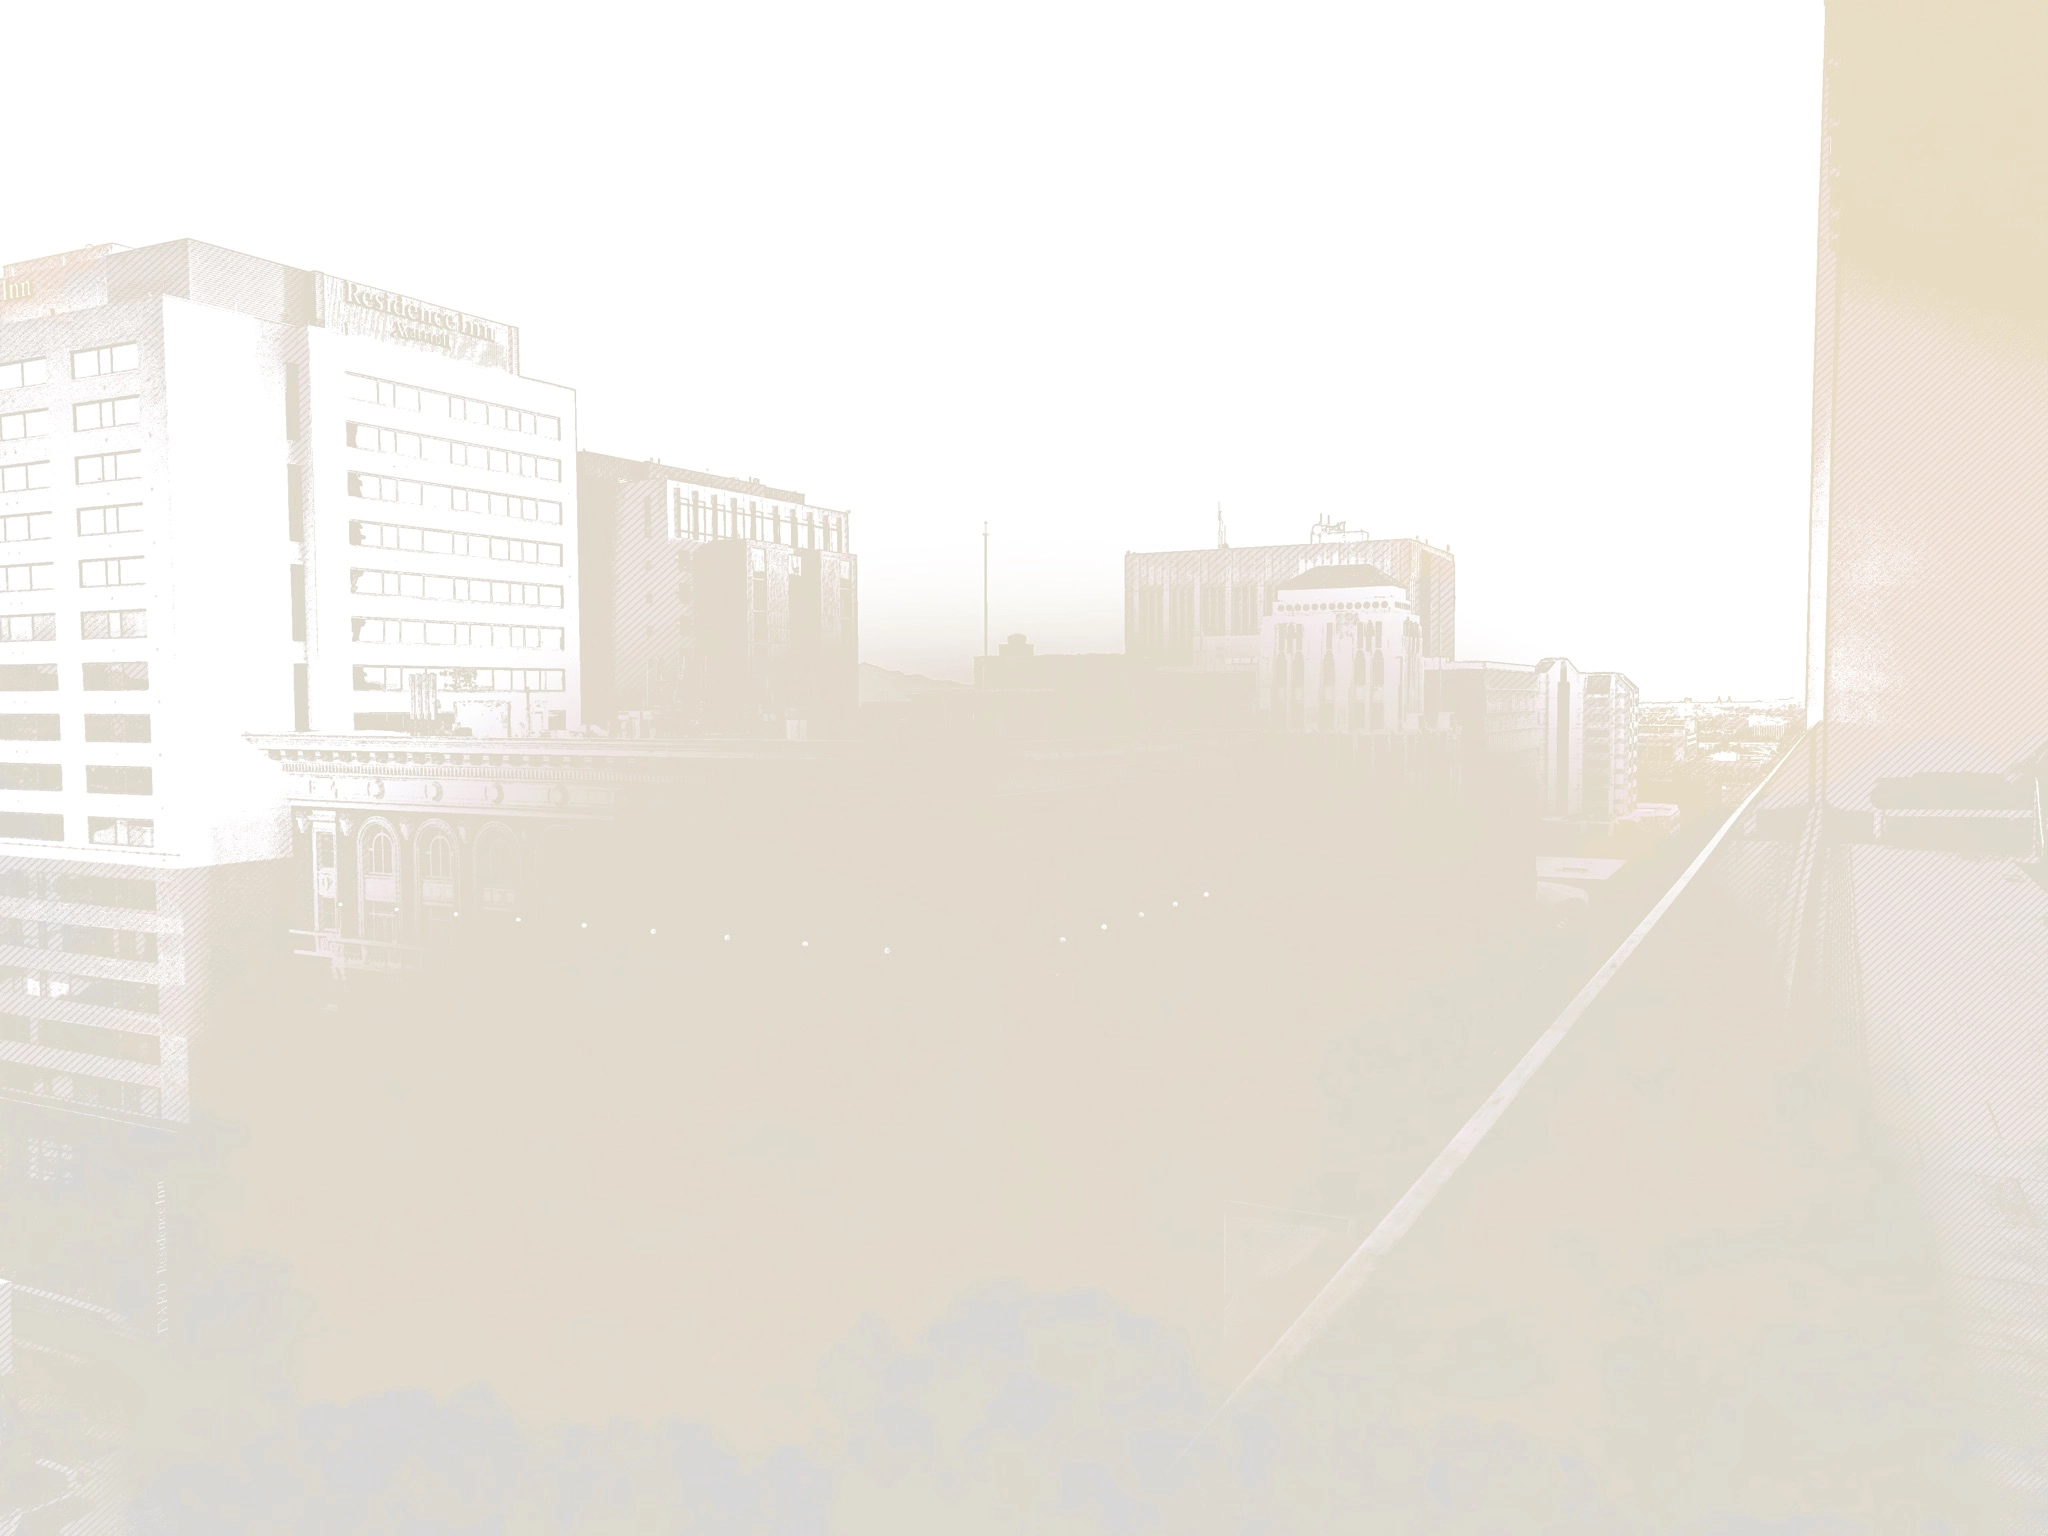
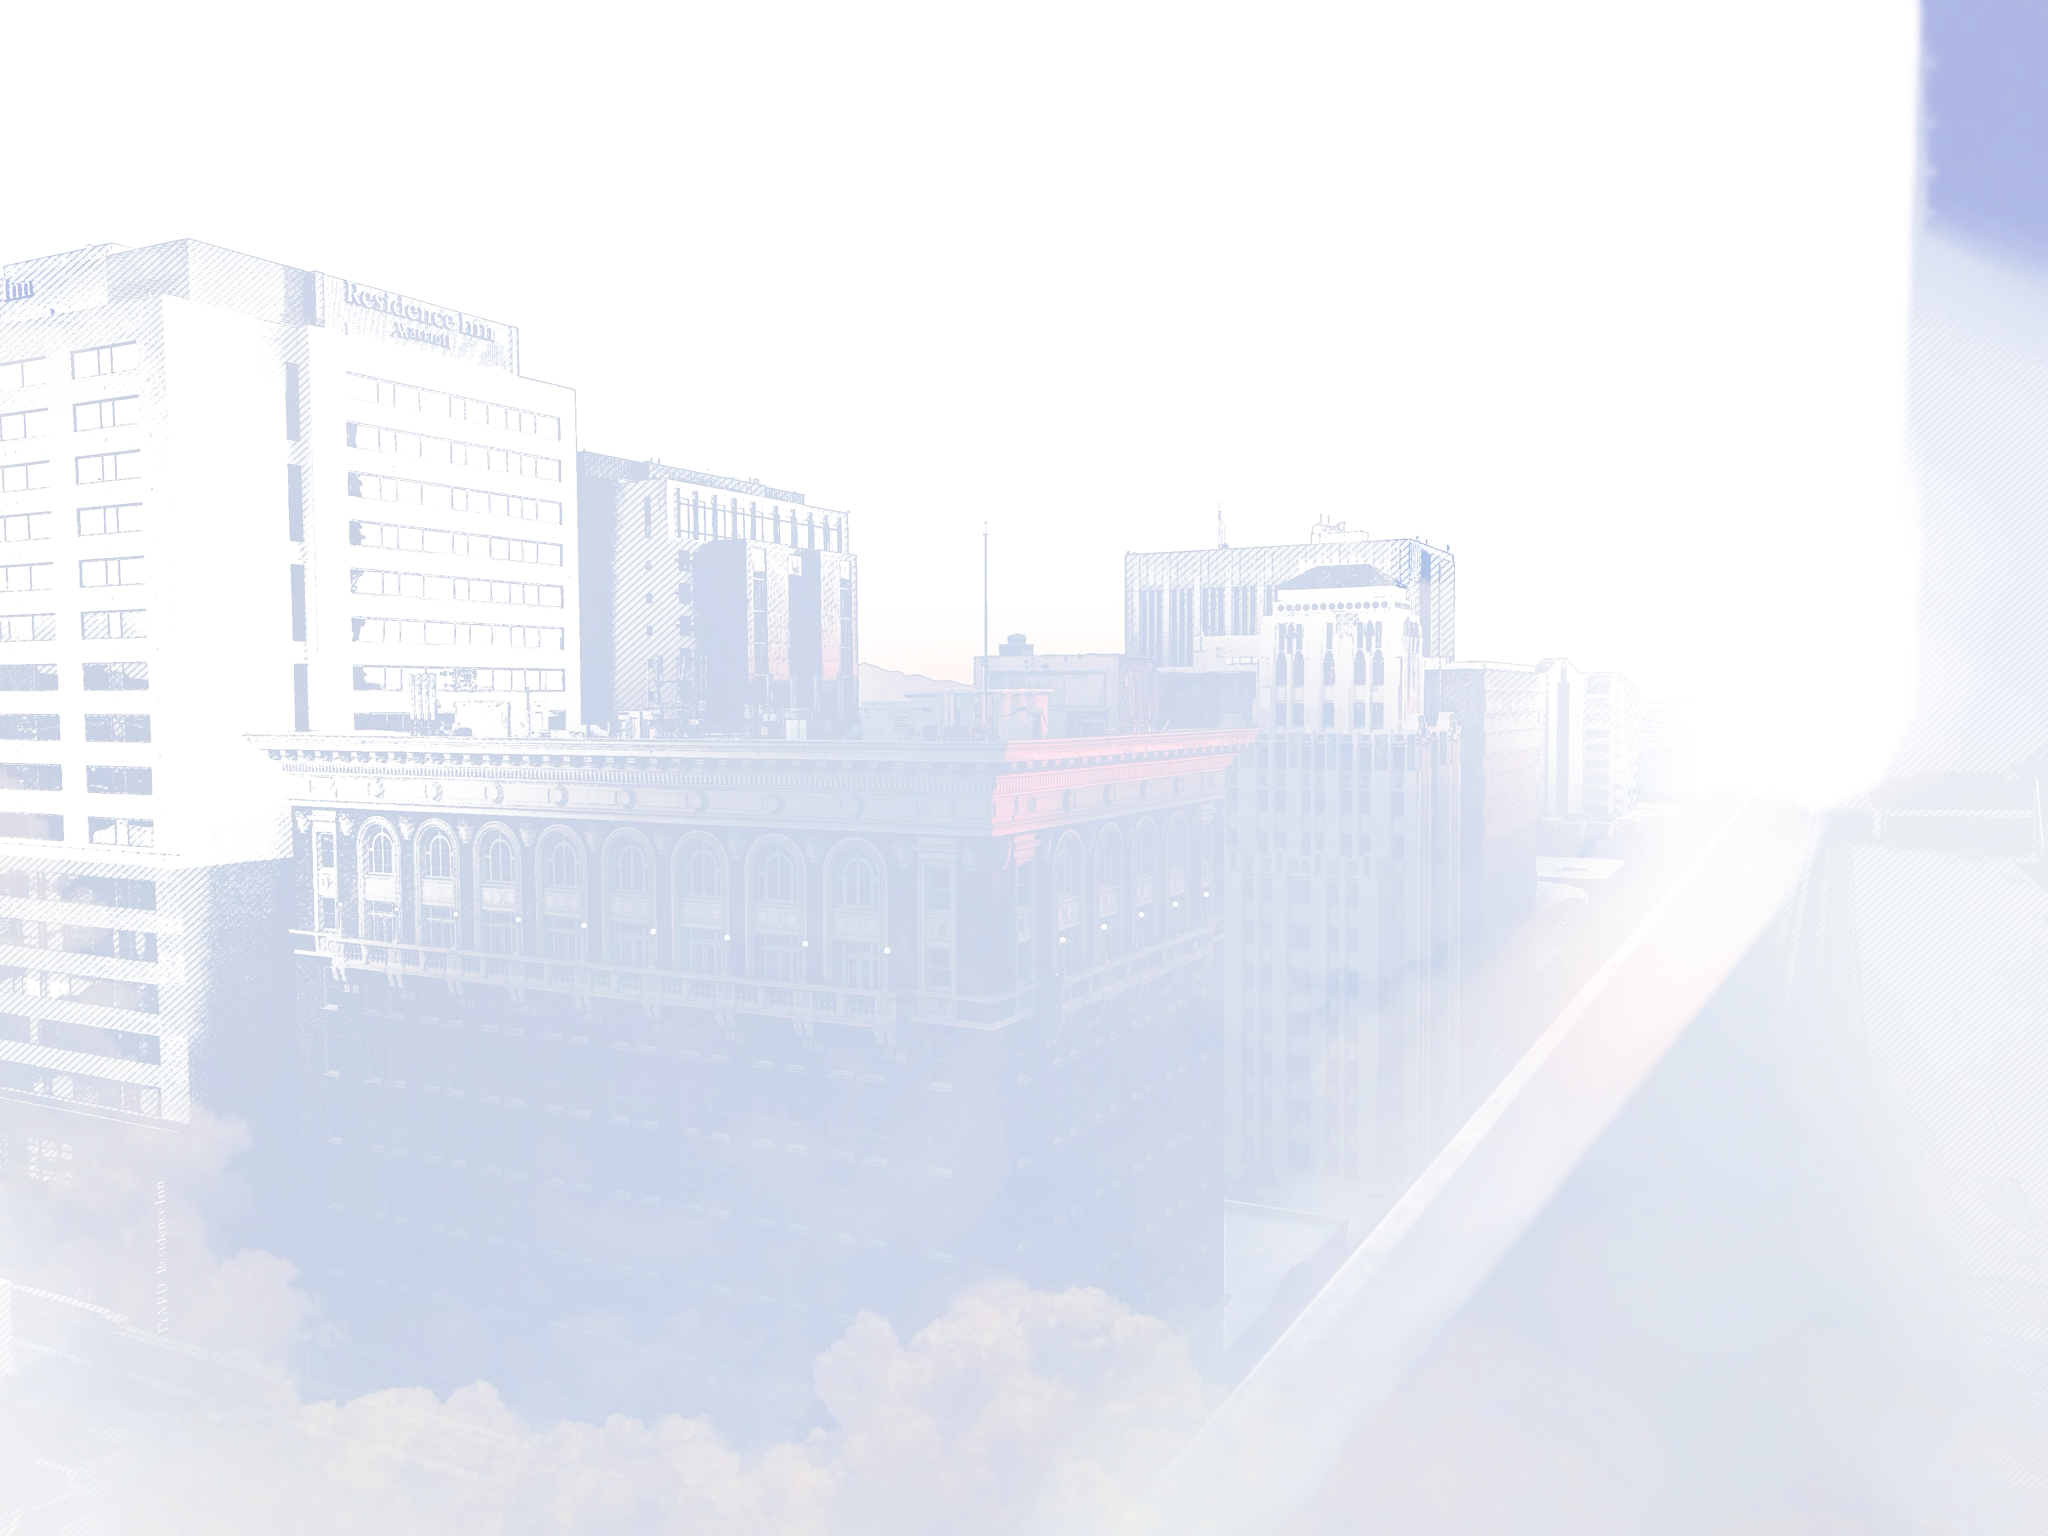
Update Styles:
- new background image
- blur behind article

diff --git a/assets/css/main.css b/assets/css/main.css
@@ -2,47 +2,64 @@ html, body {
   height: 100%;
   color: #332c34;
   padding: 0;
+  display: flex;
+  flex-direction: column;
 }
 
 main {
-  min-height: 100dvh;
   display: flex;
   flex-direction: column;
+  align-items: flex-end;
+  min-height: 100dvh;
+  margin-top: 35px;
   padding-right: 1rem;
   padding-left: 1rem;
 }
 
 
 section {
-  display: flex;
-  flex-direction: column;
-  align-items: flex-end;
   color: #cd1c18;
+  width: 100%;
+}
+
+@media screen and (min-width: 768px) {
+  section {
+    width: 60%;
+  }
+}
+
+@media screen and (min-width: 1024px) {
+  section {
+    width: 40%;
+  }
 }
 
 article {
-  display: flex;
-  flex-direction: column;
+  font-size: 1rem;
+  letter-spacing: 2px;
+  backdrop-filter: blur(5px);
 }
 
 p {
   font-family: "Proxima Nova";
-  text-align: right;
 }
 
 h1, h2 {
-  font-family: courier;
-  color: #2a242e;
+  display: flex;
+  justify-content: flex-end;
   text-align: right;
-  margin-bottom: 0;
+  font-family: "Courier";
+  color: #2a242e;
 }
 
 h1 {
   font-size: 2rem;
+  font-weight: 400;
 }
 
 h2 {
   font-size: 1.5rem;
+  font-weight: 200;
 }
 
 /* Lists */
@@ -54,7 +71,6 @@ ul {
 
 li {
   font-family: "Proxima Nova";
-  text-align: right;
   padding-top: 5px;
   list-style: none;
 }
